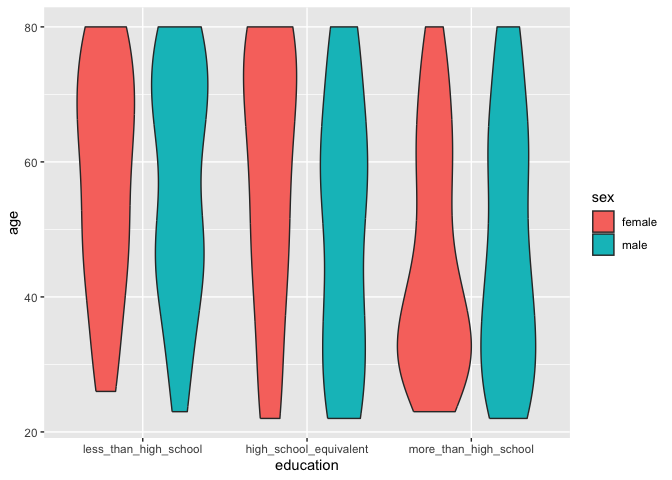
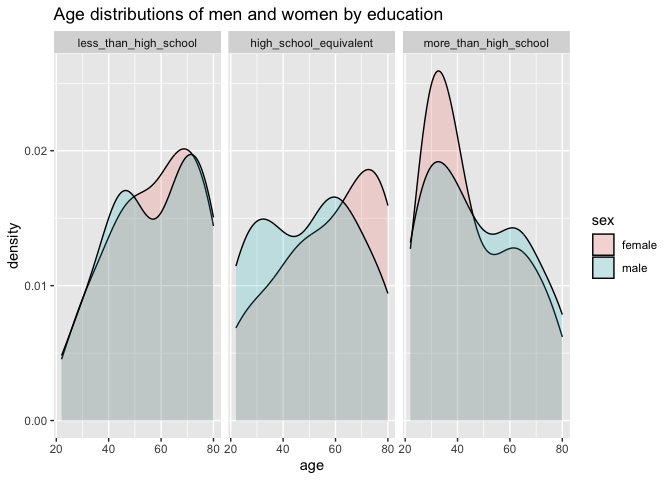
Problem 3 md

diff --git a/p8105_hw3_clk2162.md b/p8105_hw3_clk2162.md
@@ -438,16 +438,93 @@ school equivalent category.
 library(ggridges)
 
 nhanes_covar %>%
-  ggplot(aes(x = education, y = age, fill = sex)) +
-  geom_violin()
+ # ggplot(aes(x = education, y = age, fill = sex)) +
+ # geom_violin(aes(color = education, alpha = 0.5))
+#  theme(axis.text.x = element_text(angle = 30, hjust = 1)) +
+  ggplot(aes(x = age, fill = sex)) +
+  geom_density(alpha = 0.2) +
+  labs(title = "Age distributions of men and women by education") +
+  facet_grid(~education)
 ```
 
 ![](p8105_hw3_clk2162_files/figure-gfm/q3_education_age_sex-1.png)<!-- -->
 
 ``` r
-  geom_density_ridges(alpha = 0.2)
+nhanes_covar %>%
+  ggplot(aes(x = education, y = age, fill = sex)) +
+  geom_violin(aes(color = education, alpha = 0.5)) +
+  theme(axis.text.x = element_text(angle = 30, hjust = 1)) +
+  labs(title = "Age distributions of men and women by education") 
 ```
 
-    ## geom_density_ridges: na.rm = FALSE, panel_scaling = TRUE
-    ## stat_density_ridges: na.rm = FALSE
-    ## position_points_sina
+![](p8105_hw3_clk2162_files/figure-gfm/q3_education_age_sex-2.png)<!-- -->
+
+``` r
+#  facet_grid(~sex)
+```
+
+From these plots, we can see that there are more women below 40 who are
+in the more than high school category than men, and that in that
+category, the ages skew younger. In the less than high school category,
+the ages skew older, and are relatively similar across gender. For the
+high school equivalent category, there males are generally younger than
+the females.
+
+Now, look at total activity for participants.
+
+``` r
+# Using your tidied dataset, aggregate across minutes to create a total activity variable for each participant. Plot these total activities (y-axis) against age (x-axis); your plot should compare men to women and have separate panels for each education level. Include a trend line or a smooth to illustrate differences. Comment on your plot.
+
+mims_df <- nhanes_df %>%
+  pivot_longer("min1":"min1440",
+               names_to = "minute",
+               values_to = "mims") %>%
+  group_by(seqn) %>% 
+  summarise(total_activity = sum(mims))
+
+mims_and_demographics <- inner_join(mims_df, nhanes_covar, by = "seqn")
+  
+# plot the data
+
+mims_and_demographics %>% 
+  ggplot(aes(x = age, y = total_activity, color = sex)) +
+  geom_smooth(se = FALSE) +
+  labs(title = "Total activity by demographics") +
+  facet_grid(~ education)
+```
+
+    ## `geom_smooth()` using method = 'loess' and formula = 'y ~ x'
+
+![](p8105_hw3_clk2162_files/figure-gfm/unnamed-chunk-4-1.png)<!-- -->
+
+From this plot we can see that in high school equivalent and more than
+high school, the females tend to have more activity, while in the less
+than high school it is similar. In the less than highschool, activity
+decreases sharply after 60 for both sexes.
+
+Now let’s explore the data by timecourse.
+
+``` r
+timecourse_df <- nhanes_df %>% 
+  pivot_longer("min1":"min1440",
+               names_to = "minute",
+               values_to = "mims") %>% 
+  mutate(minute = substr(minute, 4, nchar(minute))) %>%
+  mutate(minute = as.numeric(minute))
+
+timecourse_df %>% 
+  group_by(seqn) %>% 
+  ggplot(aes(x = minute, y = mims, color = sex)) +
+  geom_smooth() +
+  facet_grid(~education) +
+  labs(title = "24 Hour Timecourse Activity")
+```
+
+    ## `geom_smooth()` using method = 'gam' and formula = 'y ~ s(x, bs = "cs")'
+
+![](p8105_hw3_clk2162_files/figure-gfm/unnamed-chunk-5-1.png)<!-- -->
+
+We can see that for all education levels, the general trend is similar,
+with activity low during times when people would be asleep, and high
+during the day. It is similar for both sexes, although in more than high
+school groups, the women are slightly more active.
